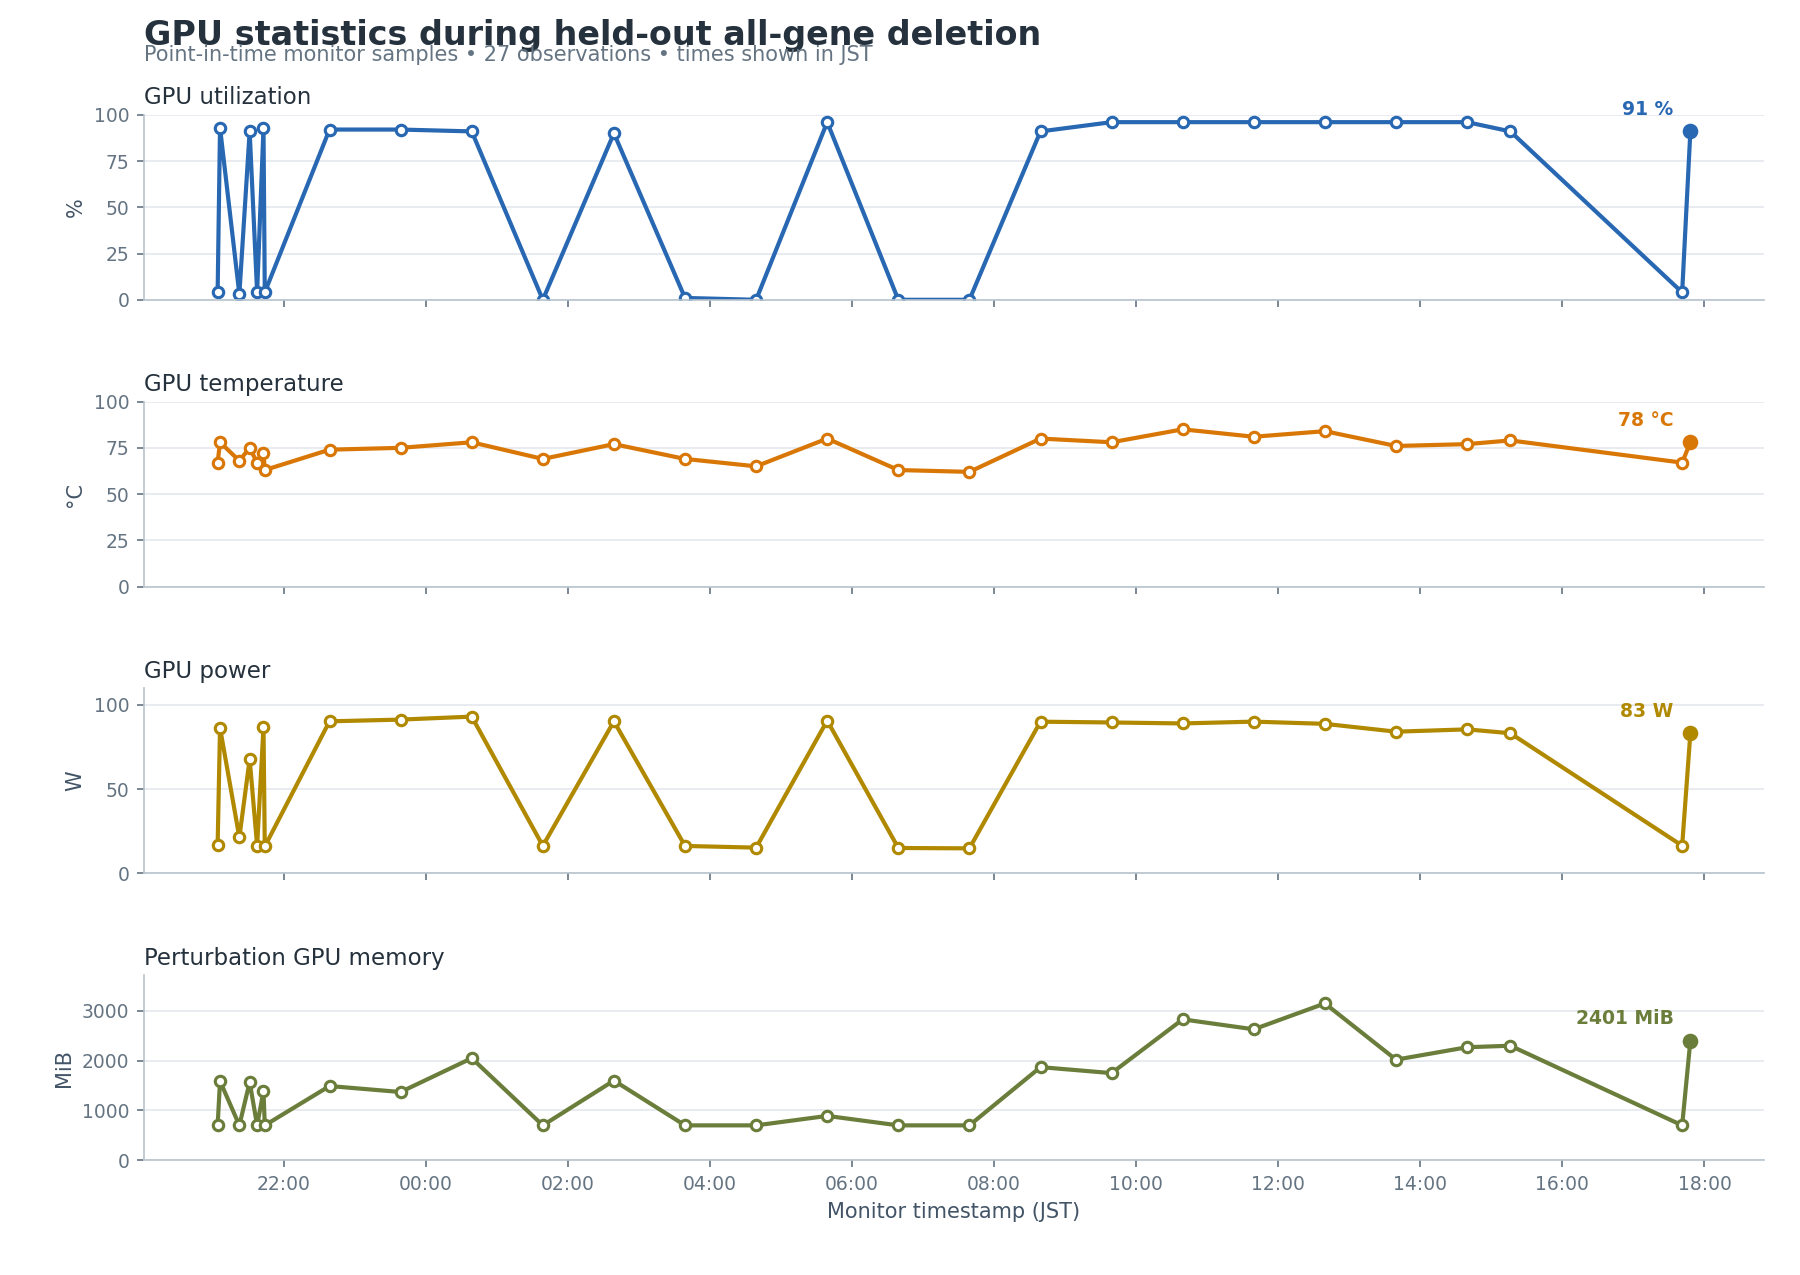
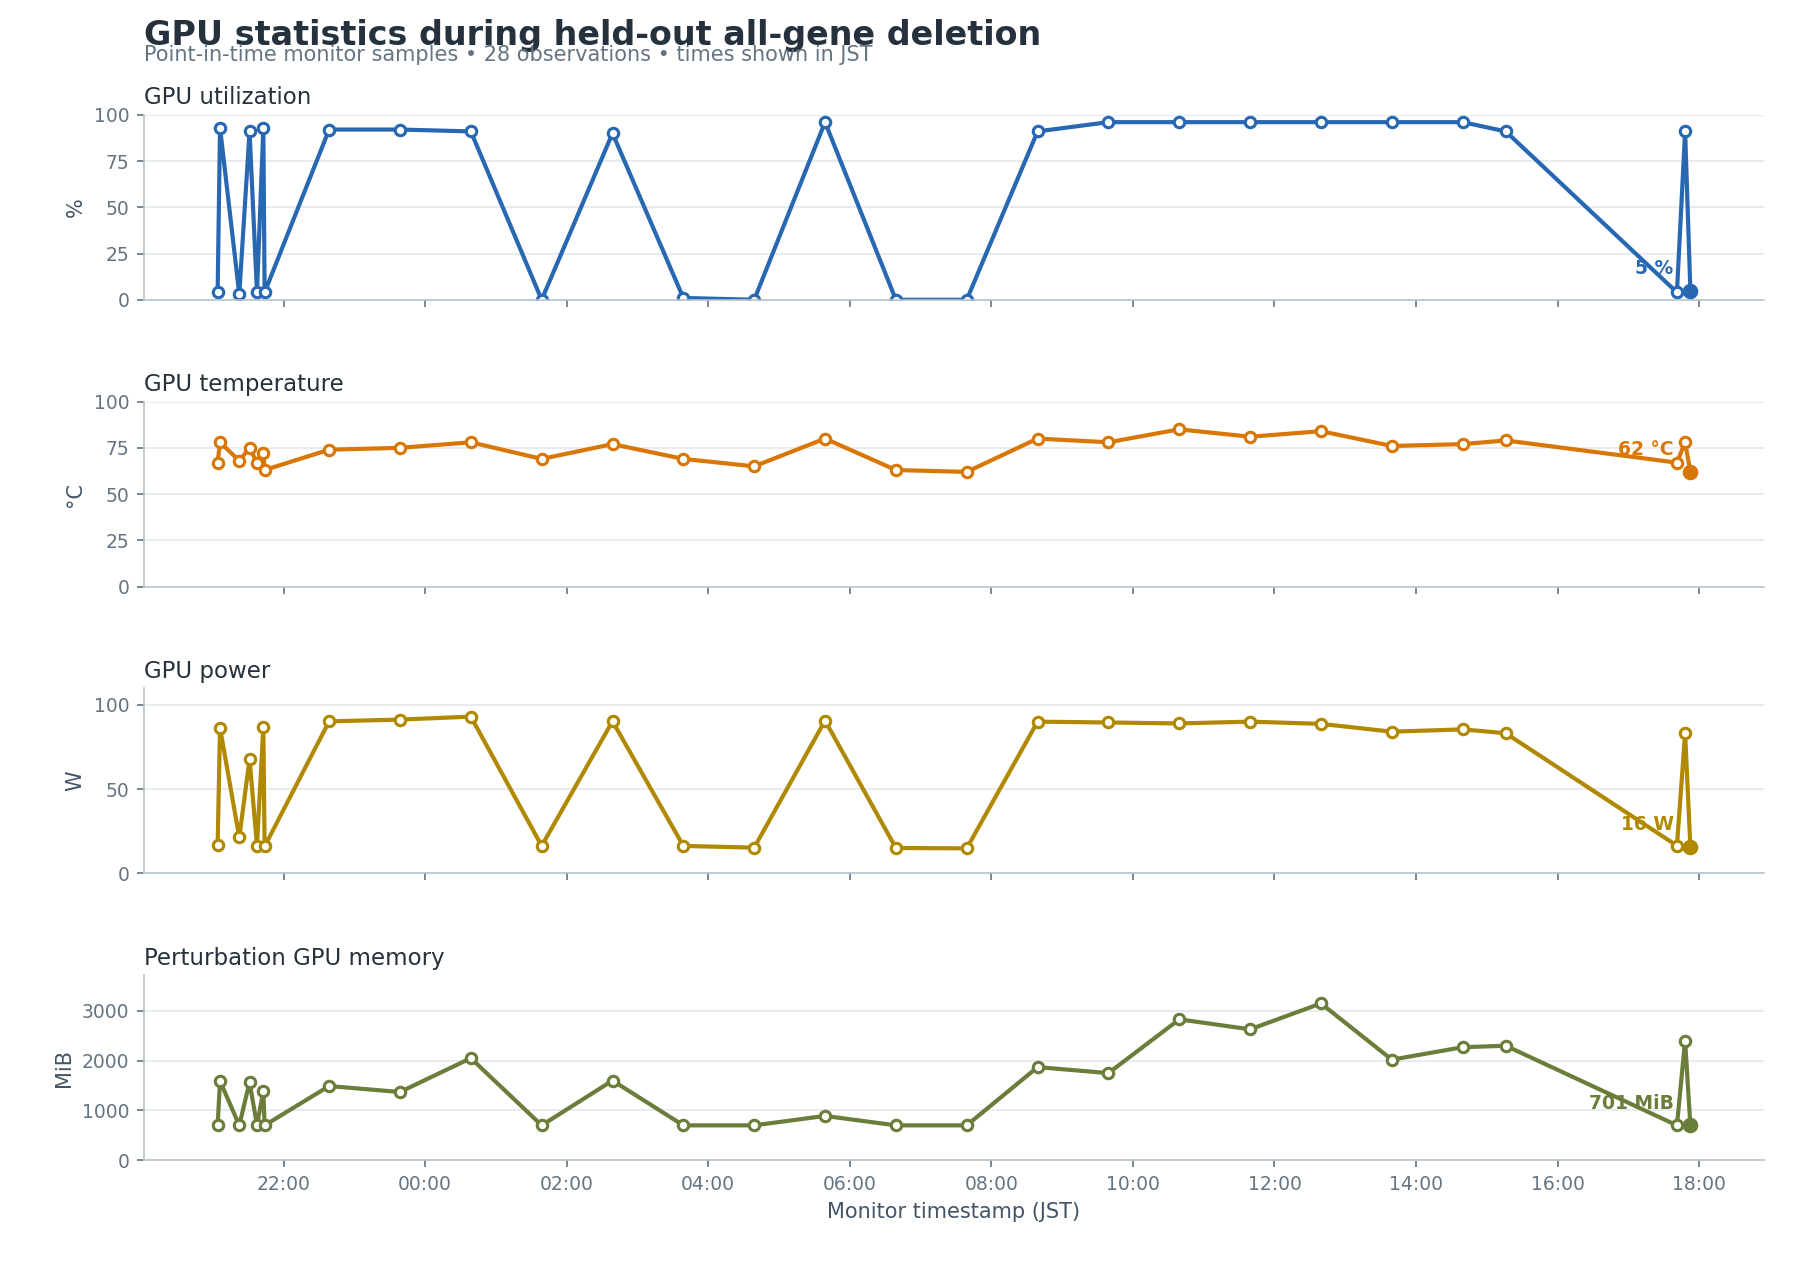
monitor: update perturbation status 2026-07-18 17:52 JST

diff --git a/current_workflow/monitoring/GPU_PROGRESS_REPORT.md b/current_workflow/monitoring/GPU_PROGRESS_REPORT.md
@@ -15,26 +15,27 @@ Newest refreshes are appended at the top and retained for the most recent
 48 runs.
 
 <!-- JOB_RUN_SUMMARIES_START -->
+- **2026-07-18T17:52:31+09:00** — RUNNING; 2,630 / 3,379 cells (77.83%). The run advanced by 5 cells and 0 shards, lifting completion from 77.69% to 77.83%. LUSC remained complete; LUAD remained complete; NORMAL moved from 654 to 659 cells; GPU utilization fell from 91% to 5%.
 - **2026-07-18T17:48:04+09:00** — RUNNING; 2,625 / 3,379 cells (77.69%). The run advanced by 12 cells and 1 shards, lifting completion from 77.33% to 77.69%. LUSC remained complete; LUAD remained complete; NORMAL moved from 642 to 654 cells; GPU utilization rose from 4% to 91%.
 - **2026-07-18T17:41:08+09:00** — RUNNING; 2,613 / 3,379 cells (77.33%). The run advanced by 210 cells and 8 shards, lifting completion from 71.12% to 77.33%. LUSC remained complete; LUAD remained complete; NORMAL moved from 432 to 642 cells; GPU utilization fell from 91% to 4%.
 <!-- JOB_RUN_SUMMARIES_END -->
 
 ## Current snapshot
 
-**What changed since the prior report:** The run advanced by 12 cells and 1 shards, lifting completion from 77.33% to 77.69%. LUSC remained complete; LUAD remained complete; NORMAL moved from 642 to 654 cells; GPU utilization rose from 4% to 91%.
+**What changed since the prior report:** The run advanced by 5 cells and 0 shards, lifting completion from 77.69% to 77.83%. LUSC remained complete; LUAD remained complete; NORMAL moved from 654 to 659 cells; GPU utilization fell from 91% to 5%.
 
 | Metric | Value |
 | --- | --- |
-| Generated | 2026-07-18T17:48:04+09:00 |
+| Generated | 2026-07-18T17:52:31+09:00 |
 | Run status | RUNNING |
-| Overall cell progress | 2,625 / 3,379 (77.69%) |
+| Overall cell progress | 2,630 / 3,379 (77.83%) |
 | GPU | NVIDIA GB10 |
-| GPU utilization | 91% |
-| GPU temperature | 78 C |
-| GPU power | 83.2 W |
-| Perturbation GPU memory | 2,401 MiB |
-| System memory used | 39.3 GiB |
-| System memory available | 80.4 GiB |
+| GPU utilization | 5% |
+| GPU temperature | 62 C |
+| GPU power | 15.7 W |
+| Perturbation GPU memory | 701 MiB |
+| System memory used | 42.1 GiB |
+| System memory available | 77.6 GiB |
 | Swap used | 0.0 GiB |
 
 ### Progress by source
@@ -43,7 +44,7 @@ Newest refreshes are appended at the top and retained for the most recent
 | --- | --- | --- | --- | --- |
 | LUSC | 560 / 560 (100.00%) | 23 / 23 | 1,120 | 348,313 / 348,313 |
 | LUAD | 1,411 / 1,411 (100.00%) | 57 / 57 | 2,822 | 1,150,097 / 1,150,097 |
-| NORMAL | 654 / 1,408 (46.45%) | 26 / 57 | 1,316 | 670,937 / 1,439,366 |
+| NORMAL | 659 / 1,408 (46.80%) | 26 / 57 | 1,326 | 670,937 / 1,439,366 |
 
 ## Final statistical comparisons
 
@@ -72,6 +73,7 @@ The history table below shows the newest samples first.
 
 | Timestamp | Cells | Progress | GPU util | Temp | Power | Shards |
 | --- | --- | --- | --- | --- | --- | --- |
+| 2026-07-18T17:52:31+09:00 | 2,630 | 77.83% | 5% | 62 C | 15.7 W | 106 |
 | 2026-07-18T17:48:04+09:00 | 2,625 | 77.69% | 91% | 78 C | 83.2 W | 106 |
 | 2026-07-18T17:41:08+09:00 | 2,613 | 77.33% | 4% | 67 C | 16.5 W | 105 |
 | 2026-07-18T15:16:02+09:00 | 2,403 | 71.12% | 91% | 79 C | 83.2 W | 97 |
@@ -79,7 +81,6 @@ The history table below shows the newest samples first.
 | 2026-07-18T13:39:27+09:00 | 2,258 | 66.82% | 96% | 76 C | 84.1 W | 91 |
 | 2026-07-18T12:39:23+09:00 | 2,172 | 64.28% | 96% | 84 C | 88.8 W | 88 |
 | 2026-07-18T11:39:20+09:00 | 2,073 | 61.35% | 96% | 81 C | 90.1 W | 84 |
-| 2026-07-18T10:39:17+09:00 | 1,974 | 58.42% | 96% | 85 C | 89.0 W | 80 |
 
 ## Job notes
 
